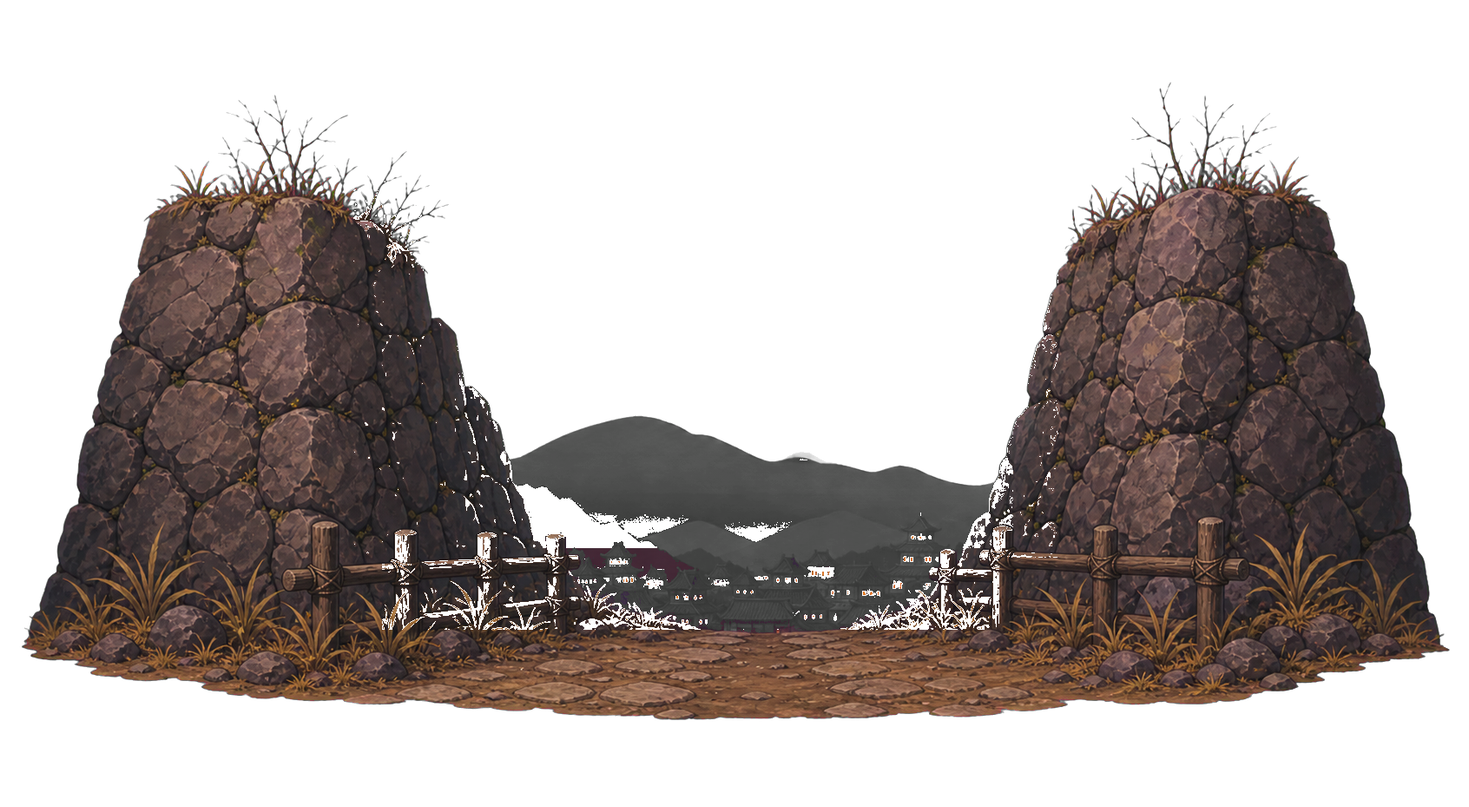
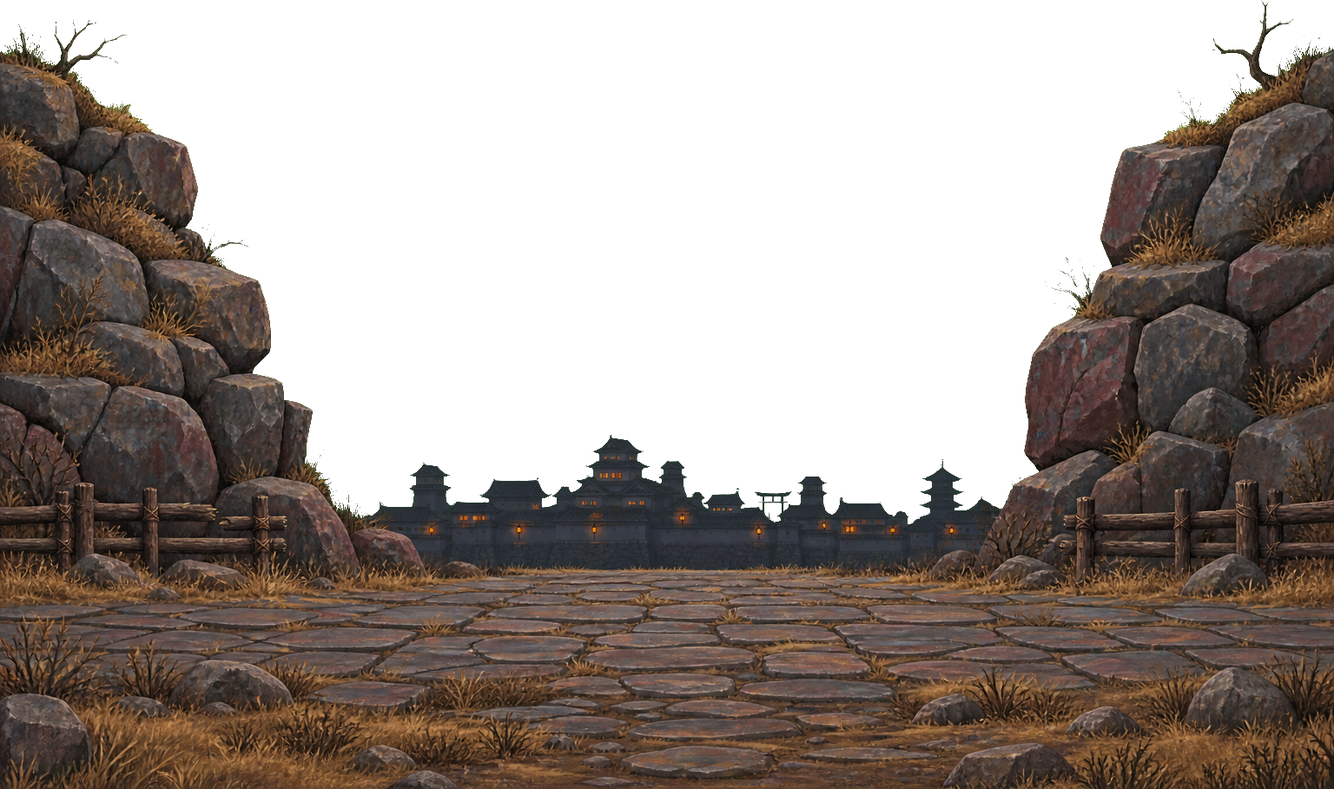
Stage3のラストオブジェクトを、遠景が抜ける峠の切り通しに描き直して接地させる
■ 地面から浮いていた
接地の基準を絵の不透明部の下端に取っていたが、この絵は下の方に自前の石畳まで
描いてあるため、その一番下で合わせると岩の裾が床帯より上に来ていた。
絵の中の地平線(町の足元＝地面が始まる高さ。実測 y=657 / h=909)を、他の背景物と
同じ足元線(groundY + BG_PROP_FOOT_DEPTH = 492)に置くよう変えた。

■ 中に黒い山が焼き込まれていた
旧アセットは切り通しの奥に自前の山(暗灰＋朱)を描き込んでいて、遠景を生成画像へ
差し替えた後は色も稜線も噛み合わなくなっていた。
新しい images/stage3_mountain_exit.png は【奥をクロマキー緑で抜いてある】ので、
ゲーム側の空と遠景の山がそのまま透けて見える。城下町のシルエット(灯り付き)だけを
地平線に残し、次のステージを予告する役目は保つ。

■ 絵の石畳を描かない
ゲームの路面と質感も遠近も揃わず、絵の左端で路面が縦に切れて見えるので、
足元線の少し下(+26)でクリップして岩の裾と枯れ草だけを床帯へ出す。
下はゲームの道がそのまま続く。
描画幅も 680 → 1320 へ。岩が画面の外まで届くので、左端で岩が縦に切れなくなる。

?v= は screen-safe-20260812s へ一括バンプ。

diff --git a/js/game.js b/js/game.js
@@ -2,17 +2,17 @@
 // Unification of the Nation - ゲームコア
 // ============================================
 
-import { CANVAS_WIDTH, SCREEN_WIDTH, CANVAS_HEIGHT, GAME_STATE, STAGES, DIFFICULTY, OBSTACLE_TYPES, PLAYER, STAGE_DEFAULT_WEAPON, LANE_OFFSET, STAGE6_CORNER, UI_SIZE_ANCHOR, getDeviceProfile, setUiScaleFromFitScale, setCornerInsets, setNotchInsetX, setVirtualPadVisible, setBgmButtonVisible, isTouchOverlayMode } from './constants.js?v=screen-safe-20260812r';
-import { BOSS_STAGING } from './bossStaging.js?v=screen-safe-20260812r';
-import { isUpdateAvailable, applyUpdate, checkForUpdate } from './appUpdate.js?v=screen-safe-20260812r';
-import { getStageSelectLayout, renderStageSelect, STAGE_SELECT_ORDER } from './stageSelect.js?v=screen-safe-20260812r';
-import { clearFilteredImageCache, getFilteredImageCacheStats } from './filteredImage.js?v=screen-safe-20260812r';
-import { BonusStage, BONUS_STAGE_IMAGES } from './bonusStage.js?v=screen-safe-20260812r';
-import { TrainingStage, TRAINING_STAGE_IMAGES } from './trainingStage.js?v=screen-safe-20260812r';
-import { sideBestKey, normalizeSideBests, getSideBest } from './sideStageCommon.js?v=screen-safe-20260812r';
-import { preloadImages, areImagesSettled } from './imageCache.js?v=screen-safe-20260812r';
-import { readPhysicalScreen, computeScreenWidth } from './screenGeometry.js?v=screen-safe-20260812r';
-import { input } from './input.js?v=screen-safe-20260812r';
+import { CANVAS_WIDTH, SCREEN_WIDTH, CANVAS_HEIGHT, GAME_STATE, STAGES, DIFFICULTY, OBSTACLE_TYPES, PLAYER, STAGE_DEFAULT_WEAPON, LANE_OFFSET, STAGE6_CORNER, UI_SIZE_ANCHOR, getDeviceProfile, setUiScaleFromFitScale, setCornerInsets, setNotchInsetX, setVirtualPadVisible, setBgmButtonVisible, isTouchOverlayMode } from './constants.js?v=screen-safe-20260812s';
+import { BOSS_STAGING } from './bossStaging.js?v=screen-safe-20260812s';
+import { isUpdateAvailable, applyUpdate, checkForUpdate } from './appUpdate.js?v=screen-safe-20260812s';
+import { getStageSelectLayout, renderStageSelect, STAGE_SELECT_ORDER } from './stageSelect.js?v=screen-safe-20260812s';
+import { clearFilteredImageCache, getFilteredImageCacheStats } from './filteredImage.js?v=screen-safe-20260812s';
+import { BonusStage, BONUS_STAGE_IMAGES } from './bonusStage.js?v=screen-safe-20260812s';
+import { TrainingStage, TRAINING_STAGE_IMAGES } from './trainingStage.js?v=screen-safe-20260812s';
+import { sideBestKey, normalizeSideBests, getSideBest } from './sideStageCommon.js?v=screen-safe-20260812s';
+import { preloadImages, areImagesSettled } from './imageCache.js?v=screen-safe-20260812s';
+import { readPhysicalScreen, computeScreenWidth } from './screenGeometry.js?v=screen-safe-20260812s';
+import { input } from './input.js?v=screen-safe-20260812s';
 
 // 最上層の会敵歩行の速度倍率。決戦前の一歩を重くするため通常より遅く歩かせる。
 const STAGE6_APPROACH_SPEED_SCALE = 0.46;   // 会敵歩行の速さ(通常歩行に対する比)
@@ -50,18 +50,18 @@ const STAGE6_DUEL_LEAD_OUT_MS = 1400;   // 開戦後に通常追従へ戻す
 // ボスが足を止めてから名乗りまでの実測483msで残差1.5pxまで収束する。
 const STAGE6_DUEL_LEAD_OMEGA = 12;
 const STAGE6_DUEL_LEAD_MAX_PX = 460;    // 先行量の上限(異常な間合いでカメラが飛ばない保険)
-import { Player } from './player.js?v=screen-safe-20260812r';
-import { createSubWeapon } from './weapon.js?v=screen-safe-20260812r';
-import { Stage, preloadStageImages, prefetchStageImages, areStageImagesSettled } from './stage.js?v=screen-safe-20260812r';
-import { GRAPPLE_PHASE } from './stage6Grapple.js?v=screen-safe-20260812r';
-import { UI, renderTitleScreen, renderTitleDebugWindow, renderGameOverScreen, renderStatusScreen, renderStageClearAnnouncement, renderLevelUpChoiceScreen, getLevelUpChoiceLayout, renderSideResultScreen, getSideResultLayout, renderPauseScreen, getPauseReturnButton, getPauseMapButton, renderGameClearScreen, renderIntro, renderEnding, getTitleScreenLayout, getStatusScreenLayout, getTitleDebugLayout, getUpdateModalLayout, renderBossNameBanner, getBossNameBannerBox } from './ui.js?v=screen-safe-20260812r';
-import { CollisionManager, checkPlayerEnemyCollision, checkEnemyAttackHit } from './collision.js?v=screen-safe-20260812r';
-import { saveManager } from './save.js?v=screen-safe-20260812r';
-import { shop } from './shop.js?v=screen-safe-20260812r';
-import { audio } from './audio.js?v=screen-safe-20260812r';
-import { ShadowRenderer } from './shadow.js?v=screen-safe-20260812r';
-import { applyShogunCombat } from './shogunCombatHelper.js?v=screen-safe-20260812r';
-import { getRockVisualPalette } from './obstacle.js?v=screen-safe-20260812r';
+import { Player } from './player.js?v=screen-safe-20260812s';
+import { createSubWeapon } from './weapon.js?v=screen-safe-20260812s';
+import { Stage, preloadStageImages, prefetchStageImages, areStageImagesSettled } from './stage.js?v=screen-safe-20260812s';
+import { GRAPPLE_PHASE } from './stage6Grapple.js?v=screen-safe-20260812s';
+import { UI, renderTitleScreen, renderTitleDebugWindow, renderGameOverScreen, renderStatusScreen, renderStageClearAnnouncement, renderLevelUpChoiceScreen, getLevelUpChoiceLayout, renderSideResultScreen, getSideResultLayout, renderPauseScreen, getPauseReturnButton, getPauseMapButton, renderGameClearScreen, renderIntro, renderEnding, getTitleScreenLayout, getStatusScreenLayout, getTitleDebugLayout, getUpdateModalLayout, renderBossNameBanner, getBossNameBannerBox } from './ui.js?v=screen-safe-20260812s';
+import { CollisionManager, checkPlayerEnemyCollision, checkEnemyAttackHit } from './collision.js?v=screen-safe-20260812s';
+import { saveManager } from './save.js?v=screen-safe-20260812s';
+import { shop } from './shop.js?v=screen-safe-20260812s';
+import { audio } from './audio.js?v=screen-safe-20260812s';
+import { ShadowRenderer } from './shadow.js?v=screen-safe-20260812s';
+import { applyShogunCombat } from './shogunCombatHelper.js?v=screen-safe-20260812s';
+import { getRockVisualPalette } from './obstacle.js?v=screen-safe-20260812s';
 
 // 端末ディスプレイの角丸推定（updateCornerInsets が使う）。
 // R ≒ 画面短辺 × 11%。退避量はコーナー円の幾何最小 0.293R に円形ボタンぶんの
@@ -1183,7 +1183,7 @@ class Game {
         shop.reset();
 
         // 武器作成関数をインポート
-        import('./weapon.js?v=screen-safe-20260812r').then(module => {
+        import('./weapon.js?v=screen-safe-20260812s').then(module => {
             // 基本ステータス復元
             this.currentStageNumber = saveData.progress.currentStage;
             // セレクト画面の解放判定。旧セーブ(フィールド無し)は「保存された次のステージ

diff --git a/js/stage.js b/js/stage.js
@@ -2,23 +2,23 @@
 // Unification of the Nation - ステージ管理
 // ============================================
 
-import { CANVAS_WIDTH, CANVAS_HEIGHT, SCREEN_WIDTH, STAGES, ENEMY_TYPES, OBSTACLE_TYPES, LANE_OFFSET, STAGE5_FLOOR, STAGE6_CORNER } from './constants.js?v=screen-safe-20260812r';
-import { BOSS_STAGING } from './bossStaging.js?v=screen-safe-20260812r';
-import { createEnemy } from './enemy.js?v=screen-safe-20260812r';
-import { createBoss } from './boss.js?v=screen-safe-20260812r';
-import { createObstacle } from './obstacle.js?v=screen-safe-20260812r';
-import { audio } from './audio.js?v=screen-safe-20260812r';
-import { generateStairsCanvas } from './stairRenderer.js?v=screen-safe-20260812r';
+import { CANVAS_WIDTH, CANVAS_HEIGHT, SCREEN_WIDTH, STAGES, ENEMY_TYPES, OBSTACLE_TYPES, LANE_OFFSET, STAGE5_FLOOR, STAGE6_CORNER } from './constants.js?v=screen-safe-20260812s';
+import { BOSS_STAGING } from './bossStaging.js?v=screen-safe-20260812s';
+import { createEnemy } from './enemy.js?v=screen-safe-20260812s';
+import { createBoss } from './boss.js?v=screen-safe-20260812s';
+import { createObstacle } from './obstacle.js?v=screen-safe-20260812s';
+import { audio } from './audio.js?v=screen-safe-20260812s';
+import { generateStairsCanvas } from './stairRenderer.js?v=screen-safe-20260812s';
 import {
     GRAPPLE_PHASE, createGrappleState, isGrappleActive, grappleProgress,
     startGrapple, updateGrapple, updateGrappleVisual, grapplePullEase, grapplePullPosition,
     renderGrappleBehind, renderGrappleFront
-} from './stage6Grapple.js?v=screen-safe-20260812r';
-import { getImage, preloadImages, prefetchImages, areImagesSettled, shouldSkipPrefetch } from './imageCache.js?v=screen-safe-20260812r';
+} from './stage6Grapple.js?v=screen-safe-20260812s';
+import { getImage, preloadImages, prefetchImages, areImagesSettled, shouldSkipPrefetch } from './imageCache.js?v=screen-safe-20260812s';
 // 画像描画は drawImageGraded を通す。ctx.filter が none のときは素通しで、
 // 掛かっているときだけフィルタ済みキャッシュを貼る(毎フレームの色調フィルタが
 // 低スペック端末での処理落ちの主因だった。詳細は filteredImage.js)。
-import { drawImageGraded } from './filteredImage.js?v=screen-safe-20260812r';
+import { drawImageGraded } from './filteredImage.js?v=screen-safe-20260812s';
 
 /**
  * 背景の添景を床帯のどこに植えるか（groundY からの奥行き）。
@@ -76,7 +76,7 @@ const STAGE_IMAGE_SOURCES = {
     },
     3: {
         fields: {
-            stage3ExitImage: 'images/stage3_mountain_exit.png',
+            stage3ExitImage: 'images/stage3_mountain_exit.png?v=20260813_exit2',
             stage3GroundImage: 'images/stage3_ground_mountain_tile.png',
             // 遠景の山並み。1枚をミラー連結してあるので横に繰り返すと稜線が繋がる
             // (右端は自身の鏡像と接し、巻き戻り点は左端同士)。
@@ -4222,16 +4222,24 @@ export class Stage {
         const peekAnchorX = peekBase - p;
         if (peekAnchorX > CANVAS_WIDTH + 600) return;
         const ANCHOR_STOP = peekBase - (this.maxProgress - CANVAS_WIDTH);
-        const exitW = 680;
+        const exitW = 1320;
         const exitH = exitW * (exitImg.naturalHeight / exitImg.naturalWidth);
         const exitX = peekAnchorX + (CANVAS_WIDTH - exitW + 18 - ANCHOR_STOP);
         if (exitX + exitW < -80 || exitX > CANVAS_WIDTH + 120) return;
-        // 画像下部に透明余白が約10.8%あるため、不透明部分の下端で接地させる。
-        // 足元は道沿いの添景と同じ床帯の奥（プレイヤーのレーンではない）。
-        const visibleBottomRatio = 829 / 929;
-        const footY = this.groundY + BG_PROP_FOOT_DEPTH + 2;
-        const exitY = Math.round(footY - exitH * visibleBottomRatio);
+        // 【接地の基準は絵の中の地平線】。この絵は下の方に自前の石畳まで描いてあり、
+        // 不透明部の一番下で合わせると岩の裾が床帯より上に来て浮いた
+        // (実機フィードバック 2026-08-12)。町の足元＝地面が始まる高さ
+        // (実測 y=657 / h=909)を、他の背景物と同じ足元線に置く。
+        const EXIT_HORIZON_RATIO = 657 / 909;
+        const footY = this.groundY + BG_PROP_FOOT_DEPTH;
+        const exitY = Math.round(footY - exitH * EXIT_HORIZON_RATIO);
         ctx.save();
+        // 【絵が持っている石畳は描かない】。ゲームの路面と質感も遠近も揃わず、
+        // 絵の左端で路面が縦に切れて見える。足元線の少し下で切って、
+        // 岩の裾と枯れ草だけを床帯へ出す＝下はゲームの道がそのまま続く。
+        ctx.beginPath();
+        ctx.rect(0, -400, CANVAS_WIDTH, footY + 26 + 400);
+        ctx.clip();
         ctx.globalAlpha *= 0.96;
         ctx.filter = 'brightness(0.84) saturate(0.72) contrast(0.94)';
         drawImageGraded(ctx, exitImg, exitX, exitY, exitW, exitH);

diff --git a/js/player.js b/js/player.js
@@ -2,11 +2,11 @@
 // Unification of the Nation - プレイヤークラス
 // ============================================
 
-import { PLAYER, GRAVITY, FRICTION, COLORS, LANE_OFFSET } from './constants.js?v=screen-safe-20260812r';
-import { input } from './input.js?v=screen-safe-20260812r';
+import { PLAYER, GRAVITY, FRICTION, COLORS, LANE_OFFSET } from './constants.js?v=screen-safe-20260812s';
+import { input } from './input.js?v=screen-safe-20260812s';
 console.log('[player.js] Imported input instance:', input ? input.instanceId : 'undefined');
-import { audio } from './audio.js?v=screen-safe-20260812r';
-import { game } from './game.js?v=screen-safe-20260812r';
+import { audio } from './audio.js?v=screen-safe-20260812s';
+import { game } from './game.js?v=screen-safe-20260812s';
 import {
     ANIM_STATE, COMBO_ATTACKS, calcExpToNextForLevel,
     BASE_EXP_TO_NEXT, TEMP_NINJUTSU_MAX_STACK_MS, LEVEL_UP_MAX_HP_GAIN, LEVEL_UP_ATK_GAIN,
@@ -14,17 +14,17 @@ import {
     PLAYER_PONYTAIL_CONNECT_LIFT_Y, PLAYER_PONYTAIL_ROOT_ANGLE_RIGHT,
     PLAYER_PONYTAIL_ROOT_ANGLE_LEFT, PLAYER_PONYTAIL_ROOT_SHIFT_X,
     PLAYER_PONYTAIL_NODE_ROOT_OFFSET_X, PLAYER_PONYTAIL_NODE_ROOT_OFFSET_Y
-} from './playerData.js?v=screen-safe-20260812r';
+} from './playerData.js?v=screen-safe-20260812s';
 import {
     applyNormalComboActiveMotion,
     applyNormalComboStartMotion,
     freezeNormalComboFinisherTrailCurve,
     prepareNormalComboFinisherProfile
-} from './normalComboMotion.js?v=screen-safe-20260812r';
-import { applyRendererMixin }    from './playerRenderer.js?v=screen-safe-20260812r';
-import { applySlashTrailMixin }  from './playerSlashTrail.js?v=screen-safe-20260812r';
-import { applySpecialMixin }     from './playerSpecial.js?v=screen-safe-20260812r';
-import { applyShogunCombat }    from './shogunCombatHelper.js?v=screen-safe-20260812r';
+} from './normalComboMotion.js?v=screen-safe-20260812s';
+import { applyRendererMixin }    from './playerRenderer.js?v=screen-safe-20260812s';
+import { applySlashTrailMixin }  from './playerSlashTrail.js?v=screen-safe-20260812s';
+import { applySpecialMixin }     from './playerSpecial.js?v=screen-safe-20260812s';
+import { applyShogunCombat }    from './shogunCombatHelper.js?v=screen-safe-20260812s';
 import {
     SHOGUN_ACTOR_BASE_HEIGHT,
     SHOGUN_ACTOR_BASE_WIDTH,
@@ -38,7 +38,7 @@ import {
     SHOGUN_CROUCH_STANCE_DUTY,
     NINJA_CROUCH_STRIDE_AMP,
     SHOGUN_CROUCH_STRIDE_AMP
-} from './shogunConstants.js?v=screen-safe-20260812r';
+} from './shogunConstants.js?v=screen-safe-20260812s';
 
 const clamp01 = (v) => Math.max(0, Math.min(1, v));
 

diff --git a/js/ui.js b/js/ui.js
@@ -2,9 +2,9 @@
 // Unification of the Nation - UIクラス
 // ============================================
 
-import { SCREEN_WIDTH, CANVAS_HEIGHT, COLORS, VIRTUAL_PAD, HUD_PANEL_X, getDeviceProfile, getPadLayout, getUiScale, getFontScale, getFitScale, getScreenSafeArea, getUiLeftEdge, getFullHeightSideInset, isTouchOverlayMode, setVirtualPadVisible } from './constants.js?v=screen-safe-20260812r';
+import { SCREEN_WIDTH, CANVAS_HEIGHT, COLORS, VIRTUAL_PAD, HUD_PANEL_X, getDeviceProfile, getPadLayout, getUiScale, getFontScale, getFitScale, getScreenSafeArea, getUiLeftEdge, getFullHeightSideInset, isTouchOverlayMode, setVirtualPadVisible } from './constants.js?v=screen-safe-20260812s';
 
-import { isUpdateAvailable } from './appUpdate.js?v=screen-safe-20260812r';
+import { isUpdateAvailable } from './appUpdate.js?v=screen-safe-20260812s';
 
 // 左上HUDの文字だけ、実寸アンカー(getFontScale)からさらに落とす係数。
 // 実測 16.0css-px は情報量の割に大きいという実機フィードバック(2026-08-09)。
@@ -22,9 +22,9 @@ const UPDATE_MODAL_TITLE = '新しいバージョンがあります';
 const UPDATE_MODAL_BODY = '最新の状態に更新してください';
 const UPDATE_MODAL_BUTTON_TOUCH = 'タップして更新';
 const UPDATE_MODAL_BUTTON_KEY = 'クリックまたはSPACEで更新';
-import { input } from './input.js?v=screen-safe-20260812r';
-import { audio } from './audio.js?v=screen-safe-20260812r';
-import { saveManager } from './save.js?v=screen-safe-20260812r';
+import { input } from './input.js?v=screen-safe-20260812s';
+import { audio } from './audio.js?v=screen-safe-20260812s';
+import { saveManager } from './save.js?v=screen-safe-20260812s';
 
 const CONTROL_MANUAL_TEXT = '←→：移動 | ↓：しゃがみ | ↑・SPACE：ジャンプ | Z：攻撃 | X：忍具 | C：切り替え | S：奥義 | SHIFT：ダッシュ | ESC：ポーズ';
 const TITLE_MANUAL_TEXT = '↑↓：選択 | ←→：難易度 | SPACE：決定';

diff --git a/js/boss.js b/js/boss.js
@@ -2,17 +2,17 @@
 // Unification of the Nation - ボスクラス
 // ============================================
 
-import { CANVAS_WIDTH, LANE_OFFSET, PLAYER, GRAVITY, GAME_STATE } from './constants.js?v=screen-safe-20260812r';
-import { Enemy } from './enemy.js?v=screen-safe-20260812r';
-import { createSubWeapon } from './weapon.js?v=screen-safe-20260812r';
-import { audio } from './audio.js?v=screen-safe-20260812r';
-import { Player } from './player.js?v=screen-safe-20260812r';
+import { CANVAS_WIDTH, LANE_OFFSET, PLAYER, GRAVITY, GAME_STATE } from './constants.js?v=screen-safe-20260812s';
+import { Enemy } from './enemy.js?v=screen-safe-20260812s';
+import { createSubWeapon } from './weapon.js?v=screen-safe-20260812s';
+import { audio } from './audio.js?v=screen-safe-20260812s';
+import { Player } from './player.js?v=screen-safe-20260812s';
 import {
     applyNormalComboActiveMotion,
     applyNormalComboStartMotion,
     freezeNormalComboFinisherTrailCurve,
     prepareNormalComboFinisherProfile
-} from './normalComboMotion.js?v=screen-safe-20260812r';
+} from './normalComboMotion.js?v=screen-safe-20260812s';
 import {
     SHOGUN_ACTOR_BASE_HEIGHT,
     SHOGUN_ACTOR_BASE_WIDTH,
@@ -21,7 +21,7 @@ import {
     SHOGUN_HEAD_SCALE,
     SHOGUN_HIP_LIFT_PX,
     SHOGUN_SCALE
-} from './shogunConstants.js?v=screen-safe-20260812r';
+} from './shogunConstants.js?v=screen-safe-20260812s';
 import {
     BOSS_DESIGNS,
     renderBossActor,
@@ -35,7 +35,7 @@ import {
     kusarigamaStance,
     drawCarriedKusarigama,
     odachiStance
-} from './bossRenderer.js?v=screen-safe-20260812r';
+} from './bossRenderer.js?v=screen-safe-20260812s';
 
 // weaponReplica の攻撃進行度(0..1)。体の所作を実体のタイムラインへ同期させる。
 function replicaProgress(replica) {

diff --git a/js/playerRenderer.js b/js/playerRenderer.js
@@ -1,17 +1,17 @@
 // Unification of the Nation - 描画系 mixin
 
-import { PLAYER, GRAVITY, FRICTION, COLORS, LANE_OFFSET } from './constants.js?v=screen-safe-20260812r';
-import { audio } from './audio.js?v=screen-safe-20260812r';
-import { game } from './game.js?v=screen-safe-20260812r';
+import { PLAYER, GRAVITY, FRICTION, COLORS, LANE_OFFSET } from './constants.js?v=screen-safe-20260812s';
+import { audio } from './audio.js?v=screen-safe-20260812s';
+import { game } from './game.js?v=screen-safe-20260812s';
 import {
     ANIM_STATE, COMBO_ATTACKS, PLAYER_HEADBAND_LINE_WIDTH, PLAYER_SPECIAL_HEADBAND_LINE_WIDTH,
     PLAYER_PONYTAIL_CONNECT_LIFT_Y, PLAYER_PONYTAIL_ROOT_ANGLE_RIGHT,
     PLAYER_PONYTAIL_ROOT_ANGLE_LEFT, PLAYER_PONYTAIL_ROOT_SHIFT_X,
     PLAYER_PONYTAIL_NODE_ROOT_OFFSET_X, PLAYER_PONYTAIL_NODE_ROOT_OFFSET_Y,
     BASE_EXP_TO_NEXT, TEMP_NINJUTSU_MAX_STACK_MS, LEVEL_UP_MAX_HP_GAIN
-} from './playerData.js?v=screen-safe-20260812r';
-import { applyShogunRendererMixin } from './shogunRendererHelper.js?v=screen-safe-20260812r';
-import { drawImageGraded } from './filteredImage.js?v=screen-safe-20260812r';
+} from './playerData.js?v=screen-safe-20260812s';
+import { applyShogunRendererMixin } from './shogunRendererHelper.js?v=screen-safe-20260812s';
+import { drawImageGraded } from './filteredImage.js?v=screen-safe-20260812s';
 import {
     SHOGUN_SCALE,
     SHOGUN_ACTOR_BASE_HEIGHT,
@@ -37,7 +37,7 @@ import {
     NINJA_CROUCH_LIFT_AMP,
     SHOGUN_CROUCH_LIFT_AMP,
     SHOGUN_RUN_STRIDE_CENTER_BIAS
-} from './shogunConstants.js?v=screen-safe-20260812r';
+} from './shogunConstants.js?v=screen-safe-20260812s';
 
 export function applyRendererMixin(PlayerClass) {
     applyShogunRendererMixin(PlayerClass);

diff --git a/js/trainingStage.js b/js/trainingStage.js
@@ -15,10 +15,10 @@
 // 遠近の付いた床を焼き込んだ絵をそのまま敷くと他ステージと奥行きの文法が食い違う。
 // 固定画面なのでパララックス不要。読めない環境ではコード描画にフォールバック。
 
-import { CANVAS_WIDTH, CANVAS_HEIGHT, LANE_OFFSET, ENEMY_TYPES } from './constants.js?v=screen-safe-20260812r';
-import { createEnemy } from './enemy.js?v=screen-safe-20260812r';
-import { getImage } from './imageCache.js?v=screen-safe-20260812r';
-import { pushGain, updateGainPops, renderGainPops, tickTimeLimit, clampToLeftEdge } from './sideStageCommon.js?v=screen-safe-20260812r';
+import { CANVAS_WIDTH, CANVAS_HEIGHT, LANE_OFFSET, ENEMY_TYPES } from './constants.js?v=screen-safe-20260812s';
+import { createEnemy } from './enemy.js?v=screen-safe-20260812s';
+import { getImage } from './imageCache.js?v=screen-safe-20260812s';
+import { pushGain, updateGainPops, renderGainPops, tickTimeLimit, clampToLeftEdge } from './sideStageCommon.js?v=screen-safe-20260812s';
 
 // 開始前に読み込む画像（game.requestStageStart が本編と同じ暗幕待ちに使う）
 export const TRAINING_STAGE_IMAGES = [

diff --git a/js/playerSlashTrail.js b/js/playerSlashTrail.js
@@ -1,17 +1,17 @@
 // Unification of the Nation - 斬撃トレイル mixin
 
-import { PLAYER, GRAVITY, FRICTION, LANE_OFFSET } from './constants.js?v=screen-safe-20260812r';
-import { COMBO_ATTACKS, NORMAL_COMBO_STEP3_LAUNCH_VY, NORMAL_COMBO_STEP3_LUNGE_HSCALE_COEF, SHOGUN_STEP3_MOTION_SCALE } from './playerData.js?v=screen-safe-20260812r';
+import { PLAYER, GRAVITY, FRICTION, LANE_OFFSET } from './constants.js?v=screen-safe-20260812s';
+import { COMBO_ATTACKS, NORMAL_COMBO_STEP3_LAUNCH_VY, NORMAL_COMBO_STEP3_LUNGE_HSCALE_COEF, SHOGUN_STEP3_MOTION_SCALE } from './playerData.js?v=screen-safe-20260812s';
 import {
     SHOGUN_ACTOR_BASE_WIDTH,
     SHOGUN_ACTOR_BASE_HEIGHT,
     SHOGUN_ARM_REACH_SCALE
-} from './shogunConstants.js?v=screen-safe-20260812r';
+} from './shogunConstants.js?v=screen-safe-20260812s';
 import {
     freezeNormalComboFinisherTrailCurve,
     getNormalComboStep4RiseScale,
     getNormalComboStep5DownwardControl
-} from './normalComboMotion.js?v=screen-safe-20260812r';
+} from './normalComboMotion.js?v=screen-safe-20260812s';
 
 const COMBO_STEP5_END_TRIM_FACTOR = 0.9;
 const getComboStep5EndTrimFactor = (physicalScale = 1) => {

diff --git a/js/playerSpecial.js b/js/playerSpecial.js
@@ -1,16 +1,16 @@
 // Unification of the Nation - 分身クローン mixin
 
-import { PLAYER, LANE_OFFSET } from './constants.js?v=screen-safe-20260812r';
-import { audio } from './audio.js?v=screen-safe-20260812r';
-import { createSubWeapon } from './weapon.js?v=screen-safe-20260812r';
-import { ANIM_STATE, COMBO_ATTACKS } from './playerData.js?v=screen-safe-20260812r';
+import { PLAYER, LANE_OFFSET } from './constants.js?v=screen-safe-20260812s';
+import { audio } from './audio.js?v=screen-safe-20260812s';
+import { createSubWeapon } from './weapon.js?v=screen-safe-20260812s';
+import { ANIM_STATE, COMBO_ATTACKS } from './playerData.js?v=screen-safe-20260812s';
 import {
     SHOGUN_ACTOR_BASE_WIDTH,
     SHOGUN_ACTOR_BASE_HEIGHT,
     SHOGUN_SCALE,
     SHOGUN_SPECIAL_CLONE_SPACING_SCALE
-} from './shogunConstants.js?v=screen-safe-20260812r';
-import { getNormalComboStep4RiseScale } from './normalComboMotion.js?v=screen-safe-20260812r';
+} from './shogunConstants.js?v=screen-safe-20260812s';
+import { getNormalComboStep4RiseScale } from './normalComboMotion.js?v=screen-safe-20260812s';
 
 export function applySpecialMixin(PlayerClass) {
 

diff --git a/js/bonusStage.js b/js/bonusStage.js
@@ -20,11 +20,11 @@
 // 画像: images/bonus_kura_*.png（Codex/gpt-image 生成。読めない環境では
 // コード描画にフォールバック）。
 
-import { CANVAS_WIDTH, CANVAS_HEIGHT, LANE_OFFSET } from './constants.js?v=screen-safe-20260812r';
-import { audio } from './audio.js?v=screen-safe-20260812r';
-import { getImage } from './imageCache.js?v=screen-safe-20260812r';
-import { drawKobanImage } from './ui.js?v=screen-safe-20260812r';
-import { pushGain, updateGainPops, renderGainPops, tickTimeLimit, clampToLeftEdge } from './sideStageCommon.js?v=screen-safe-20260812r';
+import { CANVAS_WIDTH, CANVAS_HEIGHT, LANE_OFFSET } from './constants.js?v=screen-safe-20260812s';
+import { audio } from './audio.js?v=screen-safe-20260812s';
+import { getImage } from './imageCache.js?v=screen-safe-20260812s';
+import { drawKobanImage } from './ui.js?v=screen-safe-20260812s';
+import { pushGain, updateGainPops, renderGainPops, tickTimeLimit, clampToLeftEdge } from './sideStageCommon.js?v=screen-safe-20260812s';
 
 // 小判1枚の価値（両）。よろず屋の相場に合わせてここだけで調整する。
 const KOBAN_VALUE = 10;

diff --git a/js/weapon.js b/js/weapon.js
@@ -2,10 +2,10 @@
 // Unification of the Nation - 武器クラス
 // ============================================
 
-import { GRAVITY, CANVAS_WIDTH, LANE_OFFSET, PLAYER } from './constants.js?v=screen-safe-20260812r';
-import { audio } from './audio.js?v=screen-safe-20260812r';
-import { SHOGUN_SCALE } from './shogunConstants.js?v=screen-safe-20260812r';
-import { withDropShadow, drawSparks, drawBlastFlash, makeParticles, smoothstep01, pushTrailPoint, drawCometRibbon } from './weaponFx.js?v=screen-safe-20260812r';
+import { GRAVITY, CANVAS_WIDTH, LANE_OFFSET, PLAYER } from './constants.js?v=screen-safe-20260812s';
+import { audio } from './audio.js?v=screen-safe-20260812s';
+import { SHOGUN_SCALE } from './shogunConstants.js?v=screen-safe-20260812s';
+import { withDropShadow, drawSparks, drawBlastFlash, makeParticles, smoothstep01, pushTrailPoint, drawCometRibbon } from './weaponFx.js?v=screen-safe-20260812s';
 
 // 武器ジオメトリは「武器を振る主体(owner/player)のワールド寸法」を基準に組み立てる。
 // 将軍は width/height が素体(40x60)なので getWorldWidth/Height(=素体×SHOGUN_SCALE) を読む。

diff --git a/js/stageSelect.js b/js/stageSelect.js
@@ -9,9 +9,9 @@
 // ノード座標は「画像内の比率(u,v)」で持ち、cover 変換で画面座標へ写す。
 // 画像を差し替えても u,v を微調整するだけで済む（map_generation_prompt.md 参照）。
 
-import { SCREEN_WIDTH, CANVAS_HEIGHT, STAGES, getUiScale, getFontScale, getScreenSafeArea, isTouchOverlayMode } from './constants.js?v=screen-safe-20260812r';
-import { fillTextInkCentered, drawScreenManualLine, formatCount } from './ui.js?v=screen-safe-20260812r';
-import { getSideBest } from './sideStageCommon.js?v=screen-safe-20260812r';
+import { SCREEN_WIDTH, CANVAS_HEIGHT, STAGES, getUiScale, getFontScale, getScreenSafeArea, isTouchOverlayMode } from './constants.js?v=screen-safe-20260812s';
+import { fillTextInkCentered, drawScreenManualLine, formatCount } from './ui.js?v=screen-safe-20260812s';
+import { getSideBest } from './sideStageCommon.js?v=screen-safe-20260812s';
 
 // ノード定義。kind: main=本編 / bonus=小判蔵(第2階層踏破で解放) /
 // training=修行道場(第3階層踏破で解放)。どちらも実装済み。
